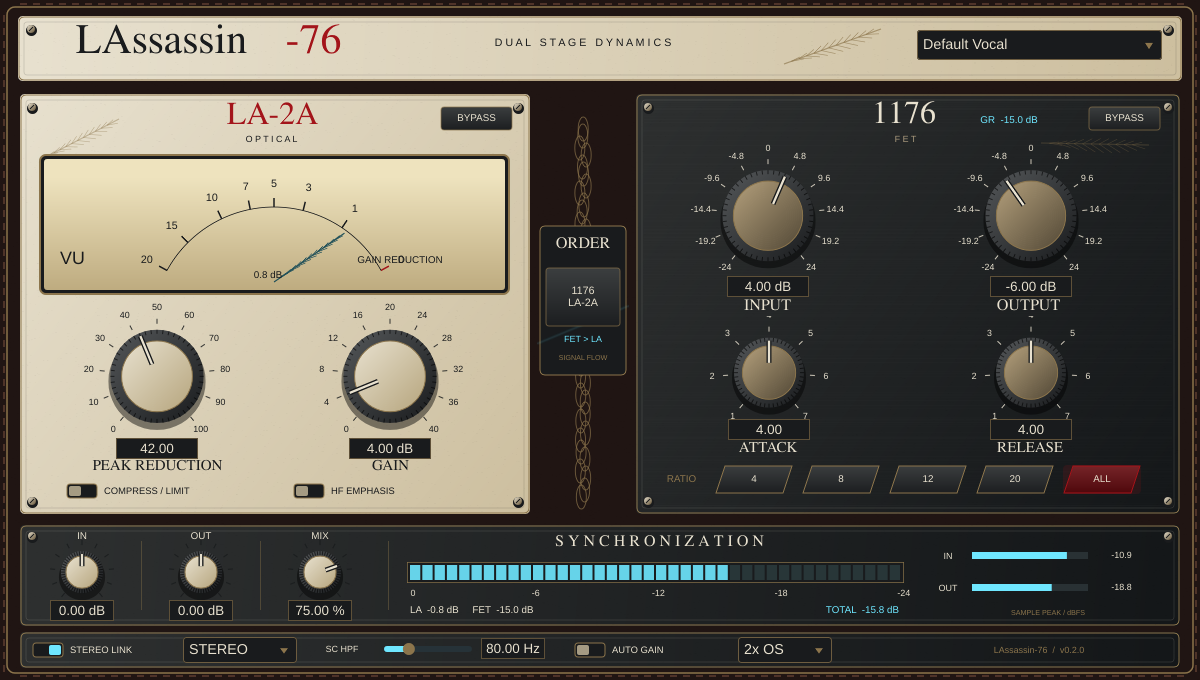
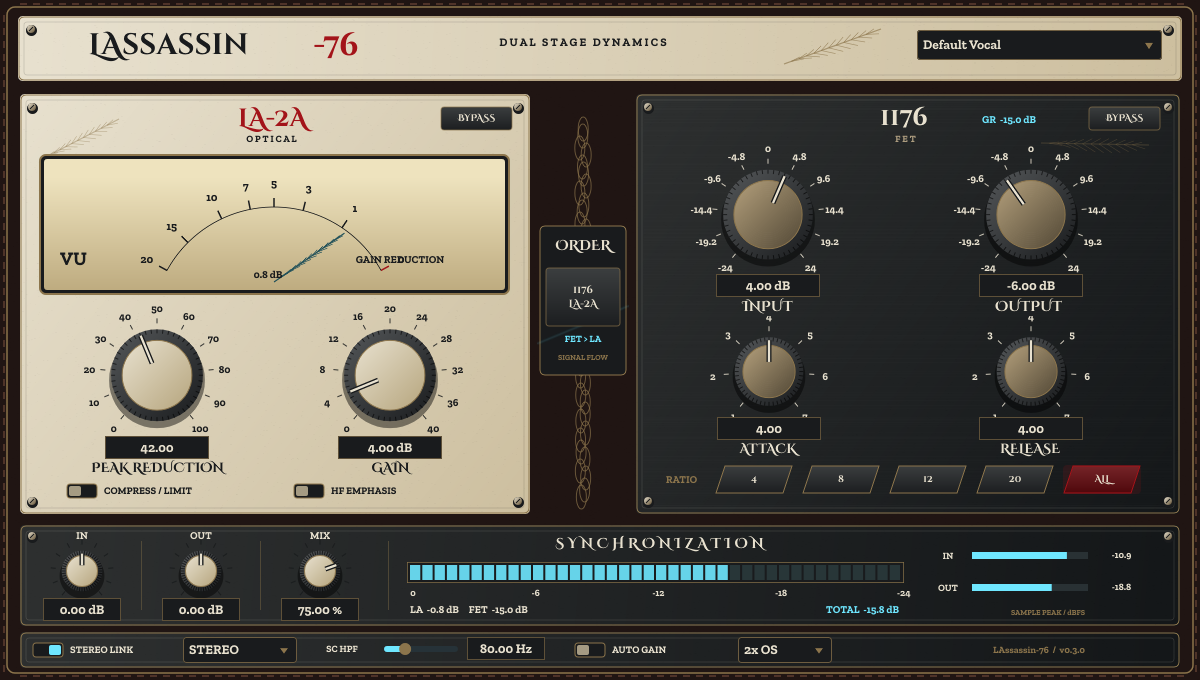
Stabilize compressor envelopes and input handling; fix native release gates

diff --git a/Source/DSP/Dynamics.h b/Source/DSP/Dynamics.h
@@ -18,6 +18,11 @@ inline float pole(double seconds, double fs)
 {
     return float(std::exp(-1.0 / (seconds * fs)));
 }
+// A direct small step avoids cancellation in 1 - exp(-1/(tau*fs)).
+inline double envelopeStep(double seconds, double fs)
+{
+    return -std::expm1(-1.0 / (seconds * fs));
+}
 inline float knee(float above, float ratio, float width)
 {
     const float slope = 1.f - 1.f / ratio;
@@ -111,21 +116,21 @@ class OpticalCompressor
     {
         Detector detector;
         Colour colour;
-        float fast = 0, slow = 0, memory = 0;
+        double fast = 0, slow = 0, memory = 0;
     };
     std::array<Channel, 2> ch;
     double fs = 48000;
-    float attack = 0, fastRelease = 0, memoryUp = 0, memoryDown = 0;
+    double attack = 0, fastRelease = 0, memoryUp = 0, memoryDown = 0;
 
   public:
     std::array<float, 2> gr{};
     void prepare(double sr)
     {
         fs = sr;
-        attack = pole(.010, fs);
-        fastRelease = pole(.060 / std::log(10.0), fs); // fast branch T90 = 60 ms
-        memoryUp = pole(.5, fs);
-        memoryDown = pole(5, fs);
+        attack = envelopeStep(.010, fs);
+        fastRelease = envelopeStep(.060 / std::log(10.0), fs); // fast branch T90 = 60 ms
+        memoryUp = envelopeStep(.5, fs);
+        memoryDown = envelopeStep(5, fs);
         for (auto &c : ch)
         {
             c = {};
@@ -151,14 +156,14 @@ class OpticalCompressor
                     : std::clamp(knee(gainDb(det) - (-6.f - .54f * p.peak), 3.f + 97.f * p.limit, 6), 0.f,
                                  50.f);
             const float memoryTarget = std::clamp(target / 24.f, 0.f, 1.f);
-            const float ma = memoryTarget > s.memory ? memoryUp : memoryDown;
-            s.memory = memoryTarget + ma * (s.memory - memoryTarget);
-            const float slowRelease = pole(1.0 + 14.0 * s.memory, fs);
-            const float fa = target > s.fast ? attack : fastRelease;
-            const float sa = target > s.slow ? attack : slowRelease;
-            s.fast = target + fa * (s.fast - target);
-            s.slow = target + sa * (s.slow - target);
-            gr[c] = .5f * (s.fast + s.slow);
+            const double ma = memoryTarget > s.memory ? memoryUp : memoryDown;
+            s.memory += ma * (memoryTarget - s.memory);
+            const double slowRelease = envelopeStep(1.0 + 14.0 * s.memory, fs);
+            const double fa = target > s.fast ? attack : fastRelease;
+            const double sa = target > s.slow ? attack : slowRelease;
+            s.fast += fa * (target - s.fast);
+            s.slow += sa * (target - s.slow);
+            gr[c] = float(.5 * (s.fast + s.slow));
             x[c] = s.colour.tick(x[c] * dbGain(p.gain - gr[c]), 1.05f, .12f);
         }
         l = x[0];
@@ -175,7 +180,8 @@ class FETCompressor
     {
         Detector detector;
         Colour inputColour, outputColour;
-        float feedback = 0, reduction = 0;
+        float feedback = 0;
+        double reduction = 0;
         DCBlock fetDC;
     };
     std::array<Channel, 2> ch;
@@ -199,9 +205,10 @@ class FETCompressor
     void process(float &l, float &r, const FETSettings &p)
     {
         float x[2]{l, r}, det[2];
+        const float inputGain = dbGain(p.input), outputGain = dbGain(p.output);
         for (size_t c = 0; c < 2; ++c)
         {
-            x[c] = ch[c].inputColour.tick(x[c] * dbGain(p.input), .75f, .025f);
+            x[c] = ch[c].inputColour.tick(x[c] * inputGain, .75f, .025f);
             det[c] = ch[c].detector.tick(ch[c].feedback, p.hpf, 0);
         }
         const float linked = std::max(det[0], det[1]);
@@ -219,22 +226,22 @@ class FETCompressor
             const float target = std::clamp(control, 0.f, 60.f);
             const double atk = attack * (1. + 2.5 * p.all);
             const double rel =
-                release * (1. + .65 * std::clamp(s.reduction / 24.f, 0.f, 1.f)) * (1. - .35 * p.all);
-            const float a = pole(target > s.reduction ? atk : rel, fs);
+                release * (1. + .65 * std::clamp(float(s.reduction) / 24.f, 0.f, 1.f)) * (1. - .35 * p.all);
+            const double delta = envelopeStep(target > s.reduction ? atk : rel, fs);
             // Normalize by the local closed-loop slope. A naive explicit update
             // becomes unstable at 20us with high ratios and a one-sample feedback tap.
             const float width = 2.f + 2.f * p.all;
             const float localSlope = (ratio - 1.f) * std::clamp((over + width * .5f) / width, 0.f, 1.f);
-            const float step = (1.f - a) / (1.f + localSlope);
+            const double step = delta / (1.0 + localSlope);
             s.reduction += step * (target - s.reduction);
-            gr[c] = s.reduction;
-            float y = x[c] * dbGain(-s.reduction);
+            gr[c] = float(s.reduction);
+            float y = x[c] * dbGain(-float(s.reduction));
             s.feedback = y; // tap before makeup/output transformer; one OS sample causal delay
-            const float depth = std::clamp(s.reduction / 24.f, 0.f, 1.f);
+            const float depth = std::clamp(float(s.reduction) / 24.f, 0.f, 1.f);
             const float drive = .65f + 1.6f * depth + 2.0f * p.all;
             const float bias = .015f + .065f * depth + .08f * p.all;
             y = s.fetDC.tick(asymmetric(y, drive, bias));
-            x[c] = s.outputColour.tick(y * dbGain(p.output), .75f, .025f);
+            x[c] = s.outputColour.tick(y * outputGain, .75f, .025f);
         }
         l = x[0];
         r = x[1];

diff --git a/tests/integration_tests.cpp b/tests/integration_tests.cpp
@@ -1,6 +1,7 @@
 #include "PluginProcessor.h"
 #include <cstdlib>
 #include <iostream>
+#include <limits>
 #include <stdexcept>
 // Catch C++ heap allocations on this thread during processBlock (not OS malloc/locks).
 static thread_local bool guard = false;
@@ -103,11 +104,40 @@ int main()
                 check(std::abs(p.totalGR.load() - p.laGR.load() - p.fetGR.load()) < 1.e-4f,
                       "GR sum mismatch");
             }
+            // Malformed upstream samples and hostile parameter values must not poison IIR history.
+            b.clear();
+            b.setSample(0, 0, std::numeric_limits<float>::quiet_NaN());
+            b.setSample(1, 1, std::numeric_limits<float>::infinity());
+            b.setSample(0, 2, std::numeric_limits<float>::max());
+            p.apvts.getRawParameterValue("ratio")->store(std::numeric_limits<float>::quiet_NaN());
+            p.apvts.getRawParameterValue("attack")->store(1.e20f);
+            guard = true;
+            p.processBlock(b, midi);
+            guard = false;
+            for (int c = 0; c < 2; ++c)
+                for (int i = 0; i < b.getNumSamples(); ++i)
+                    check(std::isfinite(b.getSample(c, i)), "invalid input poisoned processor state");
+            for (int block = 0; block < 8; ++block)
+            {
+                b.clear();
+                guard = true;
+                p.processBlock(b, midi);
+                guard = false;
+            }
+            check(std::isfinite(p.outputDb.load()), "invalid input poisoned later meter values");
+            set(p, "ratio", 0);
+            set(p, "attack", 4);
+            juce::AudioBuffer<float> invalidLayout(1, 16);
+            invalidLayout.clear();
+            guard = true;
+            p.processBlock(invalidLayout, midi);
+            guard = false;
             juce::MemoryBlock state;
             p.getStateInformation(state);
             LAssassinProcessor restored;
             restored.setStateInformation(state.getData(), int(state.getSize()));
-            check(std::abs(restored.apvts.getRawParameterValue("peak")->load() - 80.f) < 1.e-5f, "state restore failed");
+            check(std::abs(restored.apvts.getRawParameterValue("peak")->load() - 80.f) < 1.e-5f,
+                  "state restore failed");
         }
         check(allocations.load() == 0, "C++ heap allocation during processBlock");
         std::cout << "Integration tests passed: latency, block splitting, automation, state, no C++ heap "

diff --git a/tests/dsp_tests.cpp b/tests/dsp_tests.cpp
@@ -7,19 +7,19 @@ static void check(bool b, const char *m)
     if (!b)
         throw std::runtime_error(m);
 }
-static float opticalTail(double hold)
+static float opticalTail(double hold, double fs = 48000)
 {
     OpticalCompressor la;
-    la.prepare(48000);
+    la.prepare(fs);
     LASettings p;
     p.peak = 70;
     p.hpf = 0;
-    for (int i = 0; i < int(hold * 48000); ++i)
+    for (int i = 0; i < int(hold * fs); ++i)
     {
         float l = .5f, r = .5f;
         la.process(l, r, p);
     }
-    for (int i = 0; i < 48000; ++i)
+    for (int i = 0; i < int(fs); ++i)
     {
         float l = 0, r = 0;
         la.process(l, r, p);
@@ -31,6 +31,40 @@ int main()
     try
     {
         check(opticalTail(8) > opticalTail(.1) * 1.15f, "T4 memory must lengthen recovery");
+        const float tailReference = opticalTail(2, 44100);
+        for (double sr : {96000., 192000., 768000.})
+            check(std::abs(opticalTail(2, sr) - tailReference) < .01f,
+                  "T4 long release changed with oversampled rate");
+        {
+            OpticalCompressor optical;
+            optical.prepare(48000);
+            LASettings settings;
+            settings.peak = 70;
+            settings.hpf = 0;
+            const float target = knee(gainDb(.5f) - (-6.f - .54f * settings.peak), 3, 6);
+            for (int i = 0; i < 480; ++i)
+            {
+                float l = .5f, r = l;
+                optical.process(l, r, settings);
+            }
+            check(std::abs(optical.gr[0] / target - float(1 - std::exp(-1.))) < .002f,
+                  "T4 nominal 10ms attack mismatch");
+        }
+        {
+            FETCompressor a, b;
+            a.prepare(96000);
+            b.prepare(96000);
+            FETSettings pa, pb;
+            pa.hpf = pb.hpf = 0;
+            pb.output = 12;
+            for (int i = 0; i < 48000; ++i)
+            {
+                float l = float(.3 * std::sin(2 * pi * 997 * i / 96000.)), r = l, x = l, y = r;
+                a.process(l, r, pa);
+                b.process(x, y, pb);
+            }
+            check(std::abs(a.gr[0] - b.gr[0]) < 1.e-5f, "FET Output incorrectly entered feedback detector");
+        }
         for (double fs : {44100., 48000., 96000., 192000.})
         {
             OpticalCompressor la;

diff --git a/Source/PluginProcessor.cpp b/Source/PluginProcessor.cpp
@@ -51,14 +51,23 @@ LAssassinProcessor::LAssassinProcessor()
 {
     for (size_t i = 0; i < count; ++i)
         if (i != allMode)
+        {
             raw[i] = apvts.getRawParameterValue(ids[i]);
+            const auto *parameter = apvts.getParameter(ids[i]);
+            minimum[i] = parameter->getNormalisableRange().start;
+            maximum[i] = parameter->getNormalisableRange().end;
+            defaults[i] = parameter->convertFrom0to1(parameter->getDefaultValue());
+        }
 }
 Values LAssassinProcessor::snapshot() const
 {
     Values v{};
     for (size_t i = 0; i < count; ++i)
         if (raw[i])
-            v[i] = raw[i]->load(std::memory_order_relaxed);
+        {
+            const float value = raw[i]->load(std::memory_order_relaxed);
+            v[i] = std::isfinite(value) ? std::clamp(value, minimum[i], maximum[i]) : defaults[i];
+        }
     const int index = std::clamp(int(v[ratio]), 0, 4);
     constexpr float ratios[]{4, 8, 12, 20, 35};
     v[ratio] = ratios[index];
@@ -97,6 +106,11 @@ void LAssassinProcessor::processBlock(juce::AudioBuffer<float> &buffer, juce::Mi
 {
     juce::ScopedNoDenormals noDenormals;
     midi.clear();
+    if (buffer.getNumChannels() != 2)
+    {
+        buffer.clear();
+        return;
+    }
     const auto v = snapshot();
     x2.targets(v);
     x4.targets(v);
@@ -112,7 +126,15 @@ void LAssassinProcessor::processBlock(juce::AudioBuffer<float> &buffer, juce::Mi
         for (int i = 0; i < n; ++i)
         {
             const float g = dbGain(global[0].getNextValue());
-            const float l = buffer.getSample(0, offset + i), r = buffer.getSample(1, offset + i);
+            auto finiteInput = [](float sample)
+            {
+                // Limit only pathological >+36 dBFS inputs; preserve ordinary float headroom.
+                return std::isfinite(sample) ? std::clamp(sample, -64.f, 64.f) : 0.f;
+            };
+            const float l = finiteInput(buffer.getSample(0, offset + i));
+            const float r = finiteInput(buffer.getSample(1, offset + i));
+            buffer.setSample(0, offset + i, l);
+            buffer.setSample(1, offset + i, r);
             im = std::max({im, std::abs(l), std::abs(r)});
             work.setSample(0, i, l * g);
             work.setSample(1, i, r * g);

diff --git a/Source/PluginProcessor.h b/Source/PluginProcessor.h
@@ -32,6 +32,7 @@ class LAssassinProcessor final : public juce::AudioProcessor
   private:
     assassin::Values snapshot() const;
     std::array<std::atomic<float> *, assassin::count> raw{};
+    assassin::Values minimum{}, maximum{}, defaults{};
     assassin::Engine x2{1}, x4{2};
     std::array<assassin::Delay, 2> dryDelay;
     juce::AudioBuffer<float> work;

diff --git a/Documentation/MODEL-STATUS.md b/Documentation/MODEL-STATUS.md
@@ -1,0 +1,39 @@
+# Model status and calibration boundary
+
+The implementation matches the requested control layout and serial gain structure. It is an original behavior model, **not a verified perfect reproduction of a particular LA-2A or 1176 hardware revision**. A model name or an open-source implementation does not establish hardware accuracy.
+
+## Audited and improved in 0.3.0
+
+- T4 fast/slow/history states now use double precision and an `expm1` step. This avoids cancellation in `1-exp(-dt/tau)` and rounding of long release poles at oversampled rates.
+- FET feedback reduction uses the same stable step computation; the local feedback slope still controls numerical stability at high ratios and 20 us timing.
+- Input/output gain factors shared by the two FET channels are calculated once per frame.
+- Parameter snapshots reject nonfinite values and clamp to cached native parameter bounds without string lookups, allocation or locks on the audio thread.
+- Nonfinite upstream audio becomes zero; pathological inputs above +36 dBFS are bounded before stateful processing. Ordinary floating-point headroom is preserved.
+- Unexpected channel layouts return safely instead of indexing outside a buffer.
+- Both platform builds retain the native Windows scanner regression, including the Common Controls v6 dependency and delayed COMCTL32 imports.
+
+## Objective checks
+
+- T4 memory recovery after 0.1 s vs 8 s sustained compression.
+- Long-release agreement at 44.1 / 96 / 192 / 768 kHz within 0.01 dB for the defined stimulus.
+- Internal T4 10 ms attack reaches `1-exp(-1)` of a constant target within the specified tolerance.
+- Input increases FET GR; FET Output does not return into its own feedback detector.
+- LA makeup gain changes the following FET's GR.
+- Linked channels share GR; All/fast timings remain finite across tested rates.
+- Mix=0 latency alignment; state restore; automation; large-block splitting; ordinary C++ allocation monitoring.
+- NaN, infinity, extreme samples and invalid raw parameters do not poison later processing.
+
+These validate the implementation and its defined behavior, not hardware equivalence. Nominal attack/release constants are not interchangeable with an entire unit's measured 10–90% response.
+
+## External models reviewed
+
+- [betodealmeida/compressor1176](https://github.com/betodealmeida/compressor1176), GPLv3: reviewed as a comparison implementation. Its published code uses feed-forward detection, so it was not adopted for this project's required feedback topology. No code copied.
+- [pwing93/WingComp](https://github.com/pwing93/WingComp): reviewed the LA-2A-based project description; no explicit repository license was present in the root listing, so no source was imported.
+
+No third-party DSP code was added in this audit. The project remains independently implemented under the selected AGPL license.
+
+## Hardware-calibrated reproduction still requires
+
+A specified hardware revision and reference level; recorded input/output and GR data for stepped levels, 0.1–10 s bursts and recovery; ratio/knee curves; frequency response; H2/H3/IMD vs drive and GR; All-mode transient behavior; and level-matched listening against the reference unit.
+
+Current transformer color is a low-band saturation residual, not a hysteresis/circuit solver. The tube/FET curves are normalized asymmetric saturation, not an identified transistor/tube circuit. The T4 memory is phenomenological. Attack/release, gain-pot calibration and All-mode coefficients remain calibration constants. These limits are explicit rather than hidden behind a “perfect clone” claim.

diff --git a/Documentation/RELEASE-NOTES.md b/Documentation/RELEASE-NOTES.md
@@ -8,3 +8,7 @@ Windows x64 VST3 and macOS Universal VST3/AU testing release.
 Windows: replace the entire plugin folder and rescan. macOS builds support Intel and Apple Silicon on macOS 11+, are ad-hoc signed, and are not Apple-notarized.
 
 Source and build instructions: https://github.com/yunm4833-design/LAssassin-76 . Project AGPL-3.0-or-later; fonts SIL OFL 1.1. See the included INSTALL.md and license notices.
+
+Robustness audit: double-precision/expm1 envelopes, long-release sample-rate regression, nonfinite input/parameter protection, and malformed-channel safety. See Documentation/MODEL-STATUS.md for measured checks and hardware-calibration limits.
+
+Visual status: larger embedded retro typography is included. Pixel-level matching of the original generated concept requires its original PNG asset; the current vector skin remains the development baseline.

diff --git a/VALIDATION.md b/VALIDATION.md
@@ -84,3 +84,7 @@ Start 2: processor_integration
 - malloc/对齐分配/系统调用级别的实时安全监测。
 
 本结果证明代码可以在上述环境构建，且所列自动化检查通过，不代表完成商业插件的跨平台认证或模拟硬件校准。
+
+## 0.3.0 local audit checks
+
+Linux model, processor integration and UI binding tests: 3/3 pass (4.81 s). Added high-rate long-release agreement, 10 ms attack, Output-isolation from FET feedback, and invalid-audio/parameter recovery checks. CI native builds are the release gate. See Documentation/MODEL-STATUS.md.
